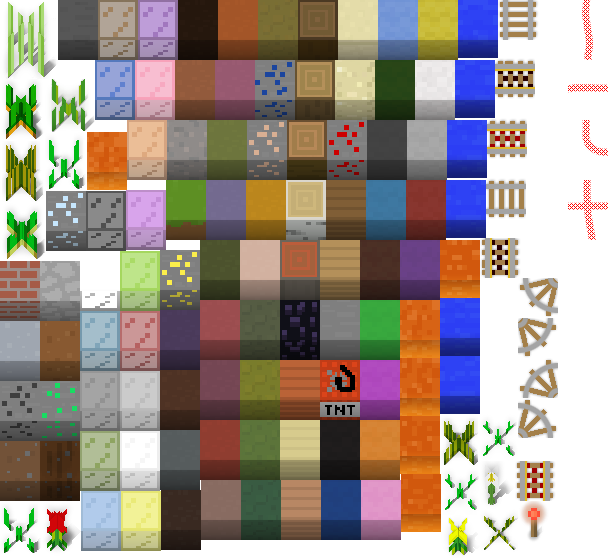
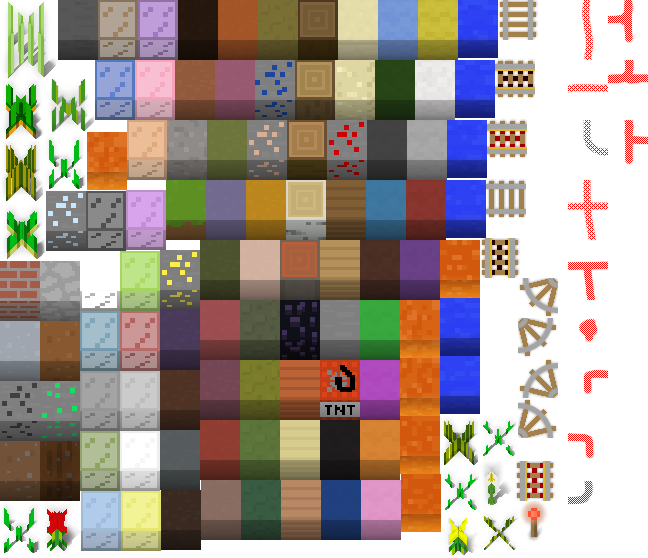
dynamic determination of redstone sprites

diff --git a/src/js/game/LevelMVC/LevelView.js b/src/js/game/LevelMVC/LevelView.js
@@ -128,7 +128,8 @@ module.exports = class LevelView {
       "railsPoweredVertical": ["blocks", "Rails_PoweredVertical", -13, 0],
       "railsRedstoneTorch": ["blocks", "Rails_RedstoneTorch", -12, 9],
 
-      "redstone_dust": ["blocks", "Redstone_Dust_Vertical", -13, 0],
+      "redstone_wire": ["blocks", "Redstone_Dust_Vertical", -13, 0],
+      "piston": ["blocks", "Emerald_Ore", -13, 0],
     };
 
     this.actionPlaneBlocks = [];
@@ -1144,7 +1145,7 @@ module.exports = class LevelView {
         sprite = null;
         if (!levelData.actionPlane[blockIndex].isEmpty) {
           blockType = levelData.actionPlane[blockIndex].blockType;
-          sprite = this.createBlock(this.actionPlane, x, y, blockType);
+          sprite = this.createBlock(this.actionPlane, x, y, blockType, levelData);
           if (sprite !== null) {
             sprite.sortOrder = this.yToIndex(y);
           }
@@ -1808,7 +1809,7 @@ module.exports = class LevelView {
     }
   }
 
-  createBlock(plane, x, y, blockType) {
+  createBlock(plane, x, y, blockType, levelData = null) {
     var i,
       sprite = null,
       frameList,
@@ -2003,7 +2004,19 @@ module.exports = class LevelView {
         });
         break;
 
+      case "redstone_wire":
+        this.determineRedstoneSprite(x, y, blockType, levelData);
+        atlas = this.blocks[blockType][0];
+        frame = this.blocks[blockType][1];
+        xOffset = this.blocks[blockType][2];
+        yOffset = this.blocks[blockType][3];
+        sprite = plane.create(xOffset + 40 * x, yOffset + plane.yOffset + 40 * y, atlas, frame);
+        break;
+
       default:
+        if (this.blocks[blockType] === undefined) {
+            console.log(blockType);
+        }
         atlas = this.blocks[blockType][0];
         frame = this.blocks[blockType][1];
         xOffset = this.blocks[blockType][2];
@@ -2013,6 +2026,102 @@ module.exports = class LevelView {
     }
 
     return sprite;
+  }
+
+  determineRedstoneSprite(x, y, blockType, levelData) {
+        let foundAbove = false;
+        let foundBelow = false;
+        let foundRight = false;
+        let foundLeft = false;
+        let belowIndex = (this.yToIndex(y + 1)) + x;
+        let aboveIndex = (this.yToIndex(y - 1)) + x;
+        let leftIndex = (this.yToIndex(y)) + x - 1;
+        let rightIndex = (this.yToIndex(y)) + x + 1;
+        
+        let borderCount = 0;
+        
+        //need to ensure these are in bounds
+        if (y === levelData.planeHeight) {
+            foundBelow = false;
+        } else {
+            if (levelData.actionPlane[belowIndex].blockType === "redstone_wire") {
+                foundBelow = true;
+                ++borderCount;
+            }
+        }
+        if (y === 0) {
+            foundAbove = false;
+        } else {
+            if (levelData.actionPlane[aboveIndex].blockType === "redstone_wire") {
+                foundAbove = true;
+                ++borderCount;
+            }
+        }
+        if (x === levelData.planeWidth) {
+            foundRight = false;
+        } else {
+            if (levelData.actionPlane[rightIndex].blockType === "redstone_wire") {
+                foundRight = true;
+                ++borderCount;
+            }
+        }
+        if (x === 0) {
+            foundLeft = false;
+        } else {
+            if (levelData.actionPlane[leftIndex].blockType === "redstone_wire") {
+                foundLeft = true;
+                ++borderCount;
+            }
+        }
+        
+        if(borderCount === 0) {
+            //no connecting redstone wire
+            this.blocks[blockType][1] = "Redstone_Dust";
+        } else if (borderCount === 1) {
+            if (foundBelow || foundAbove) {
+                this.blocks[blockType][1] = "Redstone_Dust_Vertical";
+            } else if (foundLeft || foundRight) {
+                this.blocks[blockType][1] = "Redstone_Dust_Horizontal";
+            }
+        } else if (borderCount === 2) {
+            if ((foundBelow || foundAbove) && !foundRight && !foundLeft){
+                //purely vertical, no left or right
+                this.blocks[blockType][1] = "Redstone_Dust_Vertical";
+            } else if ((foundRight || foundLeft) && !foundBelow && !foundAbove){
+                //purely horizontal, no above or below
+                this.blocks[blockType][1] = "Redstone_Dust_Horizontal";
+            } else {
+                //we have a corner and will need to rotate
+                if (foundBelow) {
+                    //if we have a blow, the other has to be right or left
+                    if (foundLeft) {
+                        this.blocks[blockType][1] = "Redstone_Dust_Corner_DownLeft";
+                    } else {
+                        this.blocks[blockType][1] = "Redstone_Dust_Corner_DownRight";
+                    }
+                } else {
+                    //if not below, then above + left or right
+                    if (foundLeft) {
+                        this.blocks[blockType][1] = "Redstone_Dust_Corner_UpLeft";
+                    } else {
+                        this.blocks[blockType][1] = "Redstone_Dust_Corner_UpRight";
+                    }
+                }
+            }
+        } else if (borderCount === 3) {
+            if (!foundBelow) {
+                this.blocks[blockType][1] = "Redstone_Dust_TUp";
+            } else if (!foundAbove) {
+                this.blocks[blockType][1] = "Redstone_Dust_TDown";
+            } else if (!foundLeft) {
+                this.blocks[blockType][1] = "Redstone_Dust_TRight";
+            } else if (!foundRight) {
+                this.blocks[blockType][1] = "Redstone_Dust_TLeft";
+            }
+        } else if (borderCount === 4) {
+            //all four sides connected: Cross
+            this.blocks[blockType][1] = "Redstone_Dust_Cross";
+        }
   }
 
   isUnderTree(treeIndex, position) {

diff --git a/src/test-build-only/levels.js b/src/test-build-only/levels.js
@@ -78,10 +78,10 @@ window.demoLevels = {
 
     actionPlane: ["grass", "grass", "", "", "", "", "", "", "grass", "grass",
       "", "grass", "", "", "", "", "", "", "", "grass",
-      "", "", "redstone_dust", "redstone_dust", "redstone_dust", "redstone_dust", "", "redstone_dust", "oreRedstone", "redstone_dust",
-      "", "", "", "", "", "oreRedstone", "", "redstone_dust", "torch", "",
-      "", "", "", "", "", "redstone_dust", "redstone_dust", "redstone_dust", "", "",
-      "dirt", "treeJungle", "", "", "", "", "", "redstone_dust", "", "",
+      "", "", "redstone_wire", "redstone_wire", "redstone_wire", "redstone_wire", "", "redstone_wire", "oreRedstone", "redstone_wire",
+      "", "", "", "", "", "oreRedstone", "", "redstone_wire", "torch", "",
+      "", "", "", "", "", "redstone_wire", "redstone_wire", "redstone_wire", "", "",
+      "dirt", "treeJungle", "", "", "", "", "", "redstone_wire", "", "",
       "", "", "grass", "door", "", "", "", "", "", "",
       "", "", "", "", "", "", "", "", "treeAcacia", "",
       "", "", "", "", "", "", "", "", "", "",

diff --git a/src/js/game/LevelMVC/LevelBlock.js b/src/js/game/LevelMVC/LevelBlock.js
@@ -94,7 +94,7 @@ module.exports = class LevelBlock {
       this.isTransparent = true;
     }
 
-    if (blockType === "redstone_dust") {
+    if (blockType === "redstone_wire") {
       this.isEntity = true;
       this.isWalkable = true;
       this.isUsable = true;
